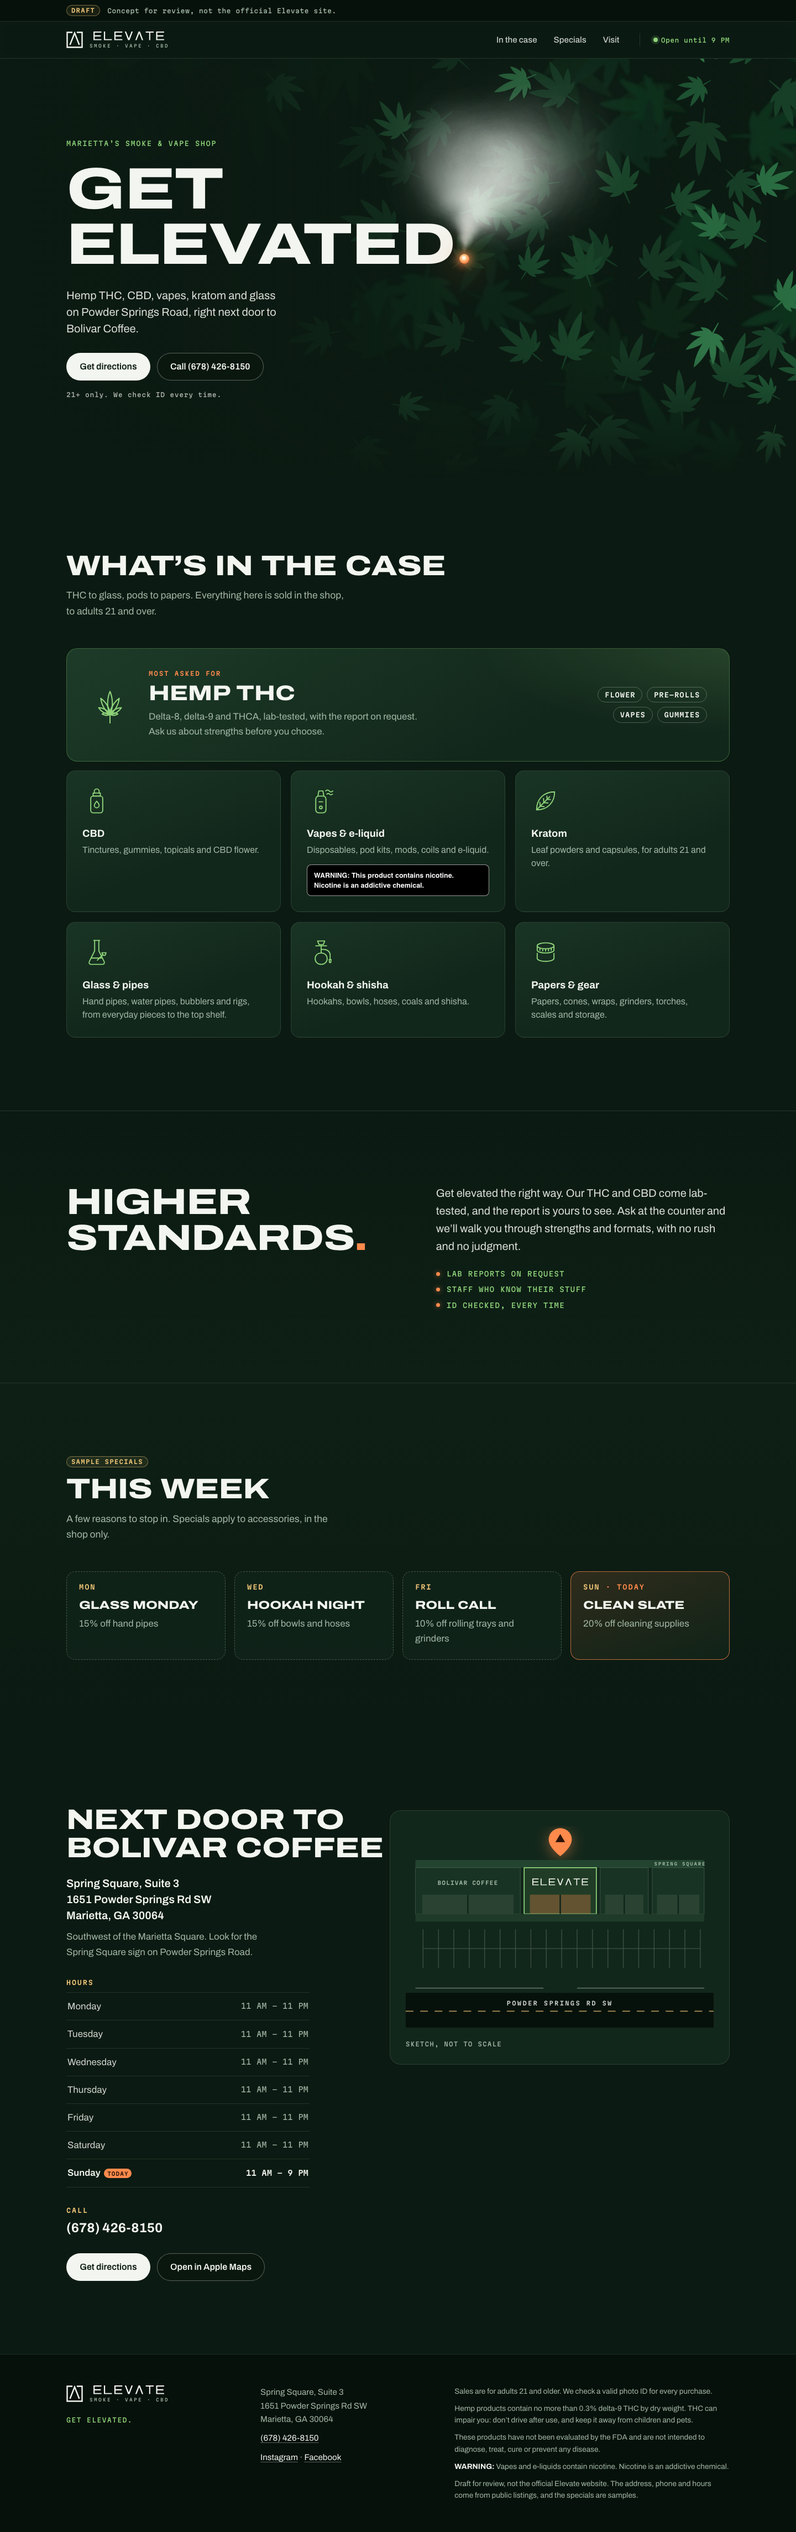
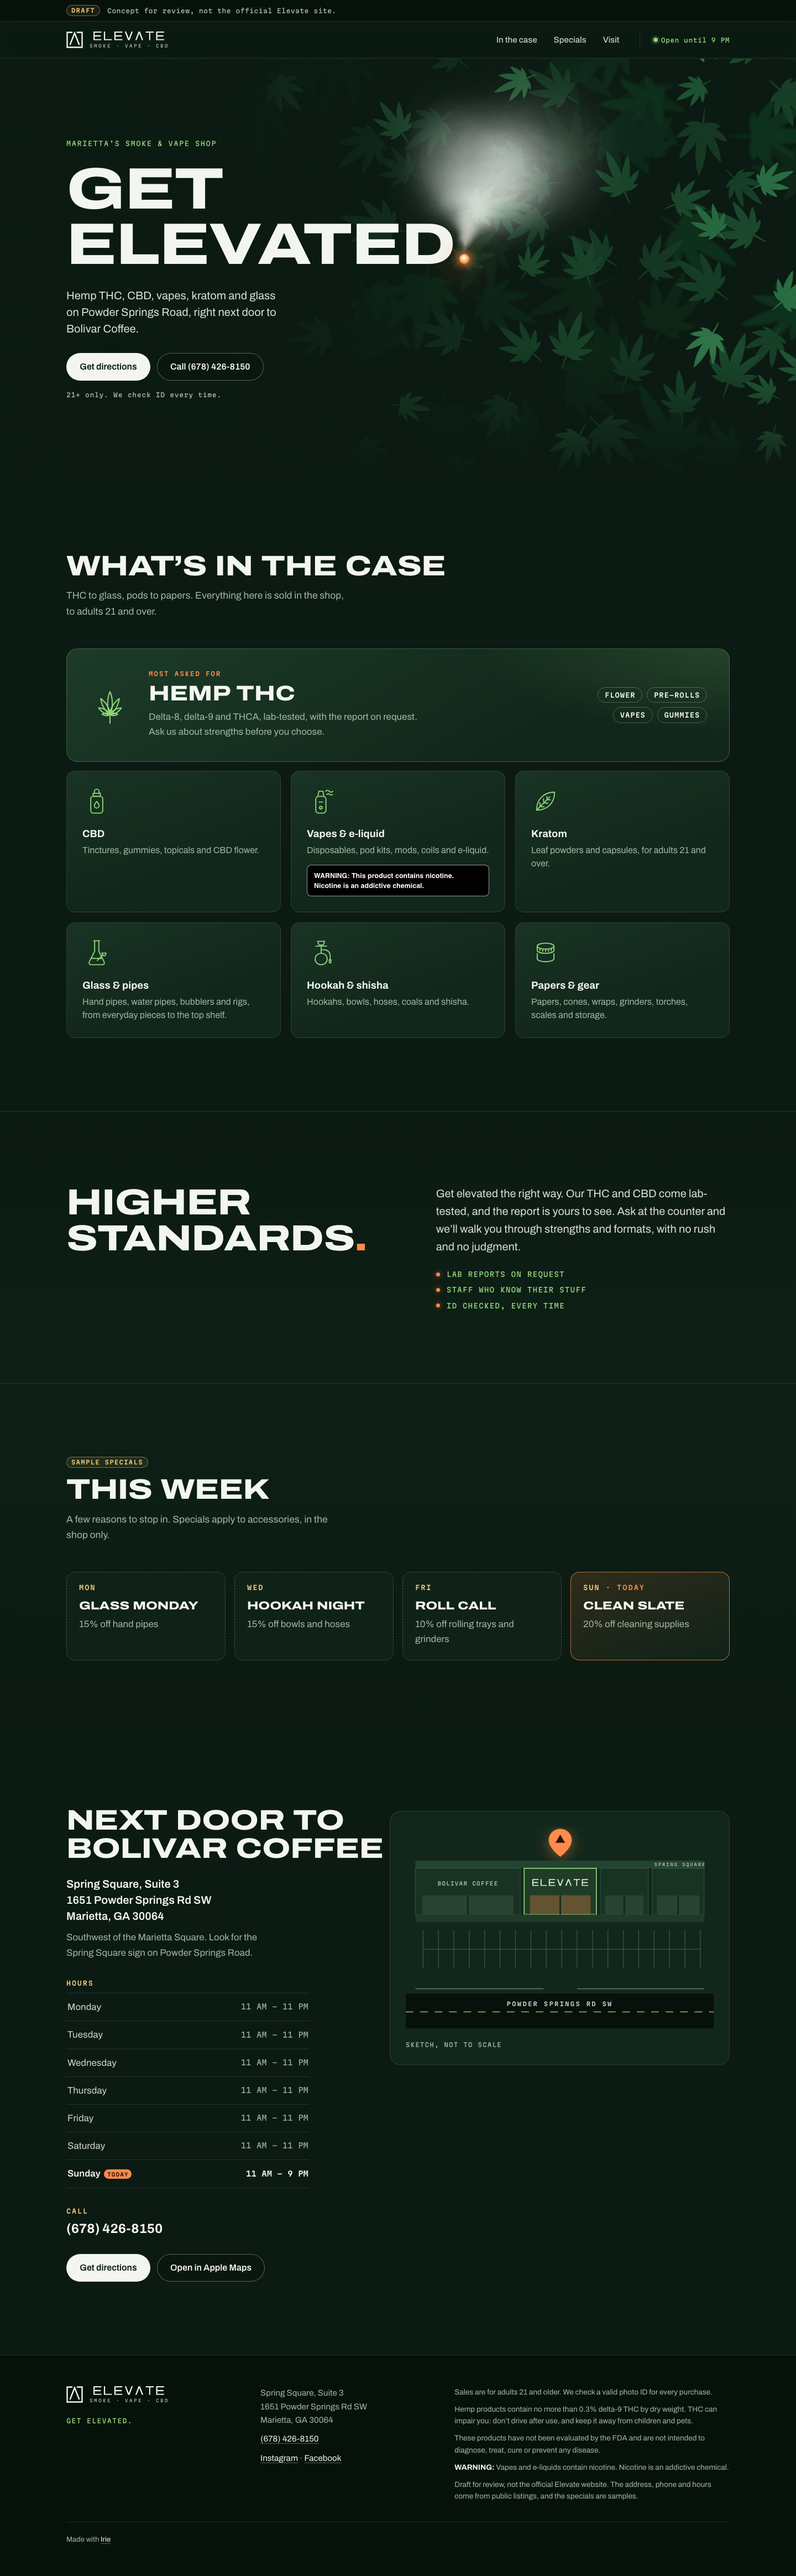
feat: credit Irie in the footer

diff --git a/docs/style.css b/docs/style.css
@@ -345,6 +345,10 @@ address { font-style: normal; font-size: 1.25rem; font-weight: 600; line-height:
 .legal { font-size: .85rem; line-height: 1.55; }
 .legal strong { color: var(--snow); }
 @media (min-width: 900px) { .footer-grid { grid-template-columns: 1fr 1fr 1.6fr; gap: 40px; } }
+.footer-base { margin-top: 36px; }
+.footer-base p { padding-top: 20px; border-top: 1px solid var(--line); font-size: .82rem; }
+.footer-base a { color: var(--snow); text-decoration-color: rgb(243 246 240 / .35); text-underline-offset: 3px; }
+.footer-base a:hover { color: var(--leaf); }
 
 /* Phone action bar */
 .dock {

diff --git a/docs/index.html b/docs/index.html
@@ -377,6 +377,9 @@
       <p>Draft for review, not the official Elevate website. The address, phone and hours come from public listings, and the specials are samples.</p>
     </div>
   </div>
+  <div class="wrap footer-base">
+    <p>Made with <a href="https://irie-people.github.io/irie/">Irie</a></p>
+  </div>
 </footer>
 
 <nav class="dock" aria-label="Quick actions">
